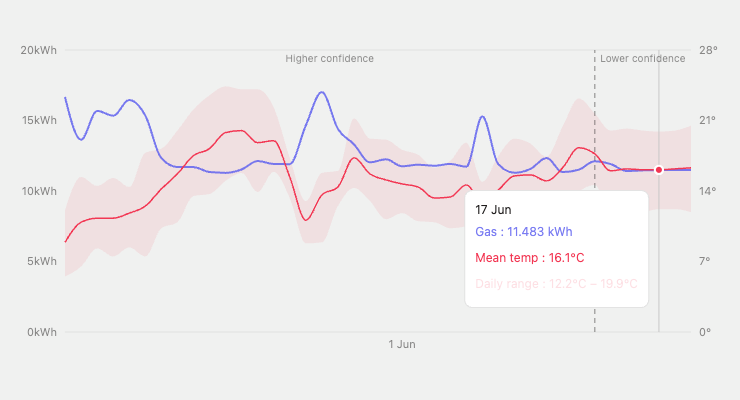
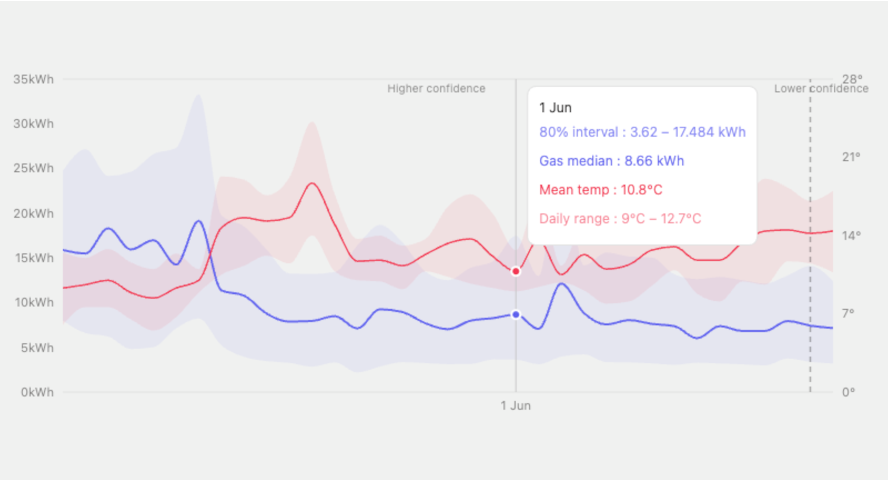
tweaked graph, tweaked theme colours, changed forecaster image

diff --git a/my-portfolio/src/pages/Gas-forecaster.jsx b/my-portfolio/src/pages/Gas-forecaster.jsx
@@ -78,24 +78,6 @@ const validateField = (key, value) => {
   return null;
 };
 
-// Aggregate a chunk of daily rows into a single weekly row.
-const aggregateWeek = (days) => {
-  const avg = (key) =>
-    parseFloat((days.reduce((s, d) => s + d[key], 0) / days.length).toFixed(1));
-  return {
-    isoDate:    days[0].isoDate,
-    date:       days[0].date,
-    gas_kwh:    parseFloat(days.reduce((s, d) => s + d.gas_kwh, 0).toFixed(2)),
-    temp:       avg("temp"),
-    temp_band:  [
-      Math.min(...days.map((d) => d.temp_band[0])),
-      Math.max(...days.map((d) => d.temp_band[1])),
-    ],
-    wind_speed: avg("wind_speed"),
-    solar_rad:  avg("solar_rad"),
-    humidity:   avg("humidity"),
-  };
-};
 
 const GasForecaster = ({ darkMode, setDarkMode }) => {
   const theme = getTheme(darkMode);
@@ -106,7 +88,6 @@ const GasForecaster = ({ darkMode, setDarkMode }) => {
   const [error, setError] = useState(null);
   const [result, setResult] = useState(null);
   const [selectedOverlay, setSelectedOverlay] = useState(null);
-  const [granularity, setGranularity] = useState("daily");   // "daily" | "weekly"
   const [chartType, setChartType] = useState("line");          // "bar" | "line"
   const [formErrors, setFormErrors] = useState({});
   const [postcode, setPostcode] = useState("");
@@ -209,45 +190,14 @@ const GasForecaster = ({ darkMode, setDarkMode }) => {
     };
   }) ?? null;
 
-  const weeklyChartData = (() => {
-    if (!dailyChartData) return null;
 
-    const weeks = [];
-
-    for (let i = 0; i + 6 < dailyChartData.length; i += 7) {
-        weeks.push(
-        aggregateWeek(dailyChartData.slice(i, i + 7))
-        );
-    }
-
-    return weeks;
-    })();
-
-  const chartData = granularity === "weekly" ? weeklyChartData : dailyChartData;
+  const chartData = dailyChartData;
 
   // X-axis: tick on the 1st of each month. For weekly, find the week whose
   // start date falls closest to the 1st (must be an exact data key).
-  const monthStartTicks = (() => {
-    if (!chartData) return [];
-    if (granularity === "daily") {
-      return chartData
-        .filter((d) => new Date(d.isoDate).getDate() === 1)
-        .map((d) => d.date);
-    }
-    // Weekly: for each calendar month present, pick the week-start closest to the 1st.
-    const monthsPresent = [...new Set(chartData.map((d) => d.isoDate.slice(0, 7)))];
-    return [...new Set(
-      monthsPresent.map((ym) => {
-        const target = new Date(`${ym}-01`).getTime();
-        return chartData.reduce((best, d) =>
-          Math.abs(new Date(d.isoDate) - target) <
-          Math.abs(new Date(best.isoDate) - target)
-            ? d
-            : best
-        ).date;
-      })
-    )];
-  })();
+  const monthStartTicks = chartData
+    ? chartData.filter((d) => new Date(d.isoDate).getDate() === 1).map((d) => d.date)
+    : [];
 
   // Y-axis: ticks every 5 kWh up to the nearest 5 above the q90 max.
   const yTicks = (() => {
@@ -260,15 +210,7 @@ const GasForecaster = ({ darkMode, setDarkMode }) => {
   // Map an ISO cutoff date to the nearest formatted date string in chartData.
   const toChartDate = (isoDate) => {
     if (!isoDate || !chartData) return null;
-    if (granularity === "daily") {
-      return chartData.find((d) => d.isoDate === isoDate)?.date ?? null;
-    }
-    for (let i = 0; i < chartData.length - 1; i++) {
-      if (chartData[i].isoDate <= isoDate && isoDate < chartData[i + 1].isoDate) {
-        return chartData[i].date;
-      }
-    }
-    return chartData[chartData.length - 1].date;
+    return chartData.find((d) => d.isoDate === isoDate)?.date ?? null;
   };
 
   const ensembleBoundary    = toChartDate(result?.ensemble_cutoff);
@@ -307,10 +249,9 @@ const GasForecaster = ({ darkMode, setDarkMode }) => {
   };
 
   const tooltipFormatter = (value, name) => {
-    const suffix = granularity === "weekly" ? " (week)" : "";
     switch (name) {
-      case "gas_kwh_q50": return [`${value} kWh`, `Gas median${suffix}`];
-      case "gas_band":    return [`${value[0]} – ${value[1]} kWh`, `80% interval${suffix}`];
+      case "gas_kwh_q50": return [`${value} kWh`, "Gas median"];
+      case "gas_band":    return [`${value[0]} – ${value[1]} kWh`, "80% interval"];
       case "temp":        return [`${value}°C`, "Mean temp"];
       case "temp_band":   return [`${value[0]}°C – ${value[1]}°C`, "Daily range"];
       case "wind_speed":  return [`${value} m/s`, "Wind speed"];
@@ -648,10 +589,6 @@ const GasForecaster = ({ darkMode, setDarkMode }) => {
             {/* Chart controls */}
             <div className="flex flex-wrap gap-6 mb-6 items-center">
               <div className="flex gap-2">
-                <button onClick={() => setGranularity("daily")}  className={pillBtn(granularity === "daily")}>Daily</button>
-                <button onClick={() => setGranularity("weekly")} className={pillBtn(granularity === "weekly")}>Weekly</button>
-              </div>
-              <div className="flex gap-2">
                 <button onClick={() => setChartType("bar")}  className={pillBtn(chartType === "bar")}>Bar</button>
                 <button onClick={() => setChartType("line")} className={pillBtn(chartType === "line")}>Line</button>
               </div>
@@ -733,7 +670,7 @@ const GasForecaster = ({ darkMode, setDarkMode }) => {
                     dataKey="gas_kwh_q50"
                     fill="rgba(99,102,241,0.55)"
                     radius={[2, 2, 0, 0]}
-                    maxBarSize={granularity === "weekly" ? 28 : 14}
+                    maxBarSize={14}
                   />
                 ) : (
                   <>
@@ -742,7 +679,8 @@ const GasForecaster = ({ darkMode, setDarkMode }) => {
                       type="monotone"
                       dataKey="gas_band"
                       fill="rgba(99,102,241,0.12)"
-                      stroke="none"
+                      stroke="rgba(99,102,241,0.7)"
+                      strokeWidth={0}
                       dot={false}
                       activeDot={false}
                       legendType="none"
@@ -765,11 +703,12 @@ const GasForecaster = ({ darkMode, setDarkMode }) => {
                     type="monotone"
                     dataKey="temp_band"
                     fill={`${activeOverlay.color}28`}
-                    stroke="none"
+                    stroke={`${activeOverlay.color}99`}
+                    strokeWidth={0}
                     dot={false}
                     activeDot={false}
                     legendType="none"
-                  />
+                    />
                 )}
 
                 {activeOverlay && (
@@ -808,7 +747,6 @@ const GasForecaster = ({ darkMode, setDarkMode }) => {
               Gas usage shows a median forecast line with a shaded 80% confidence interval based on the model's uncertainty.
               For temperature, the shaded band shows the daily high/low range.
               Dashed lines mark weather model boundaries - confidence decreases further into the future.
-              Weekly view shows summed gas and averaged weather per 7-day period.
             </p>
             <p className={`text-xs mt-2 ${theme.bodySubtle}`}>
               Weather data by{" "}

diff --git a/my-portfolio/src/theme.js b/my-portfolio/src/theme.js
@@ -89,7 +89,7 @@ const lightTheme = {
   dot: "bg-[#71A366]",
   ctaSection: "bg-[#2E402A] text-[#F3F3F3]",
   ctaBody: "text-[#BAC8B1]",
-  footer: "bg-[#BAC8B1]",
+  footer: "bg-[#232020]",
   footerText: "text-[#cbd1e3]",
   educationSection: "bg-[#BAC8B1]",
   educationCard: "bg-[#F3F3F3] shadow-sm",